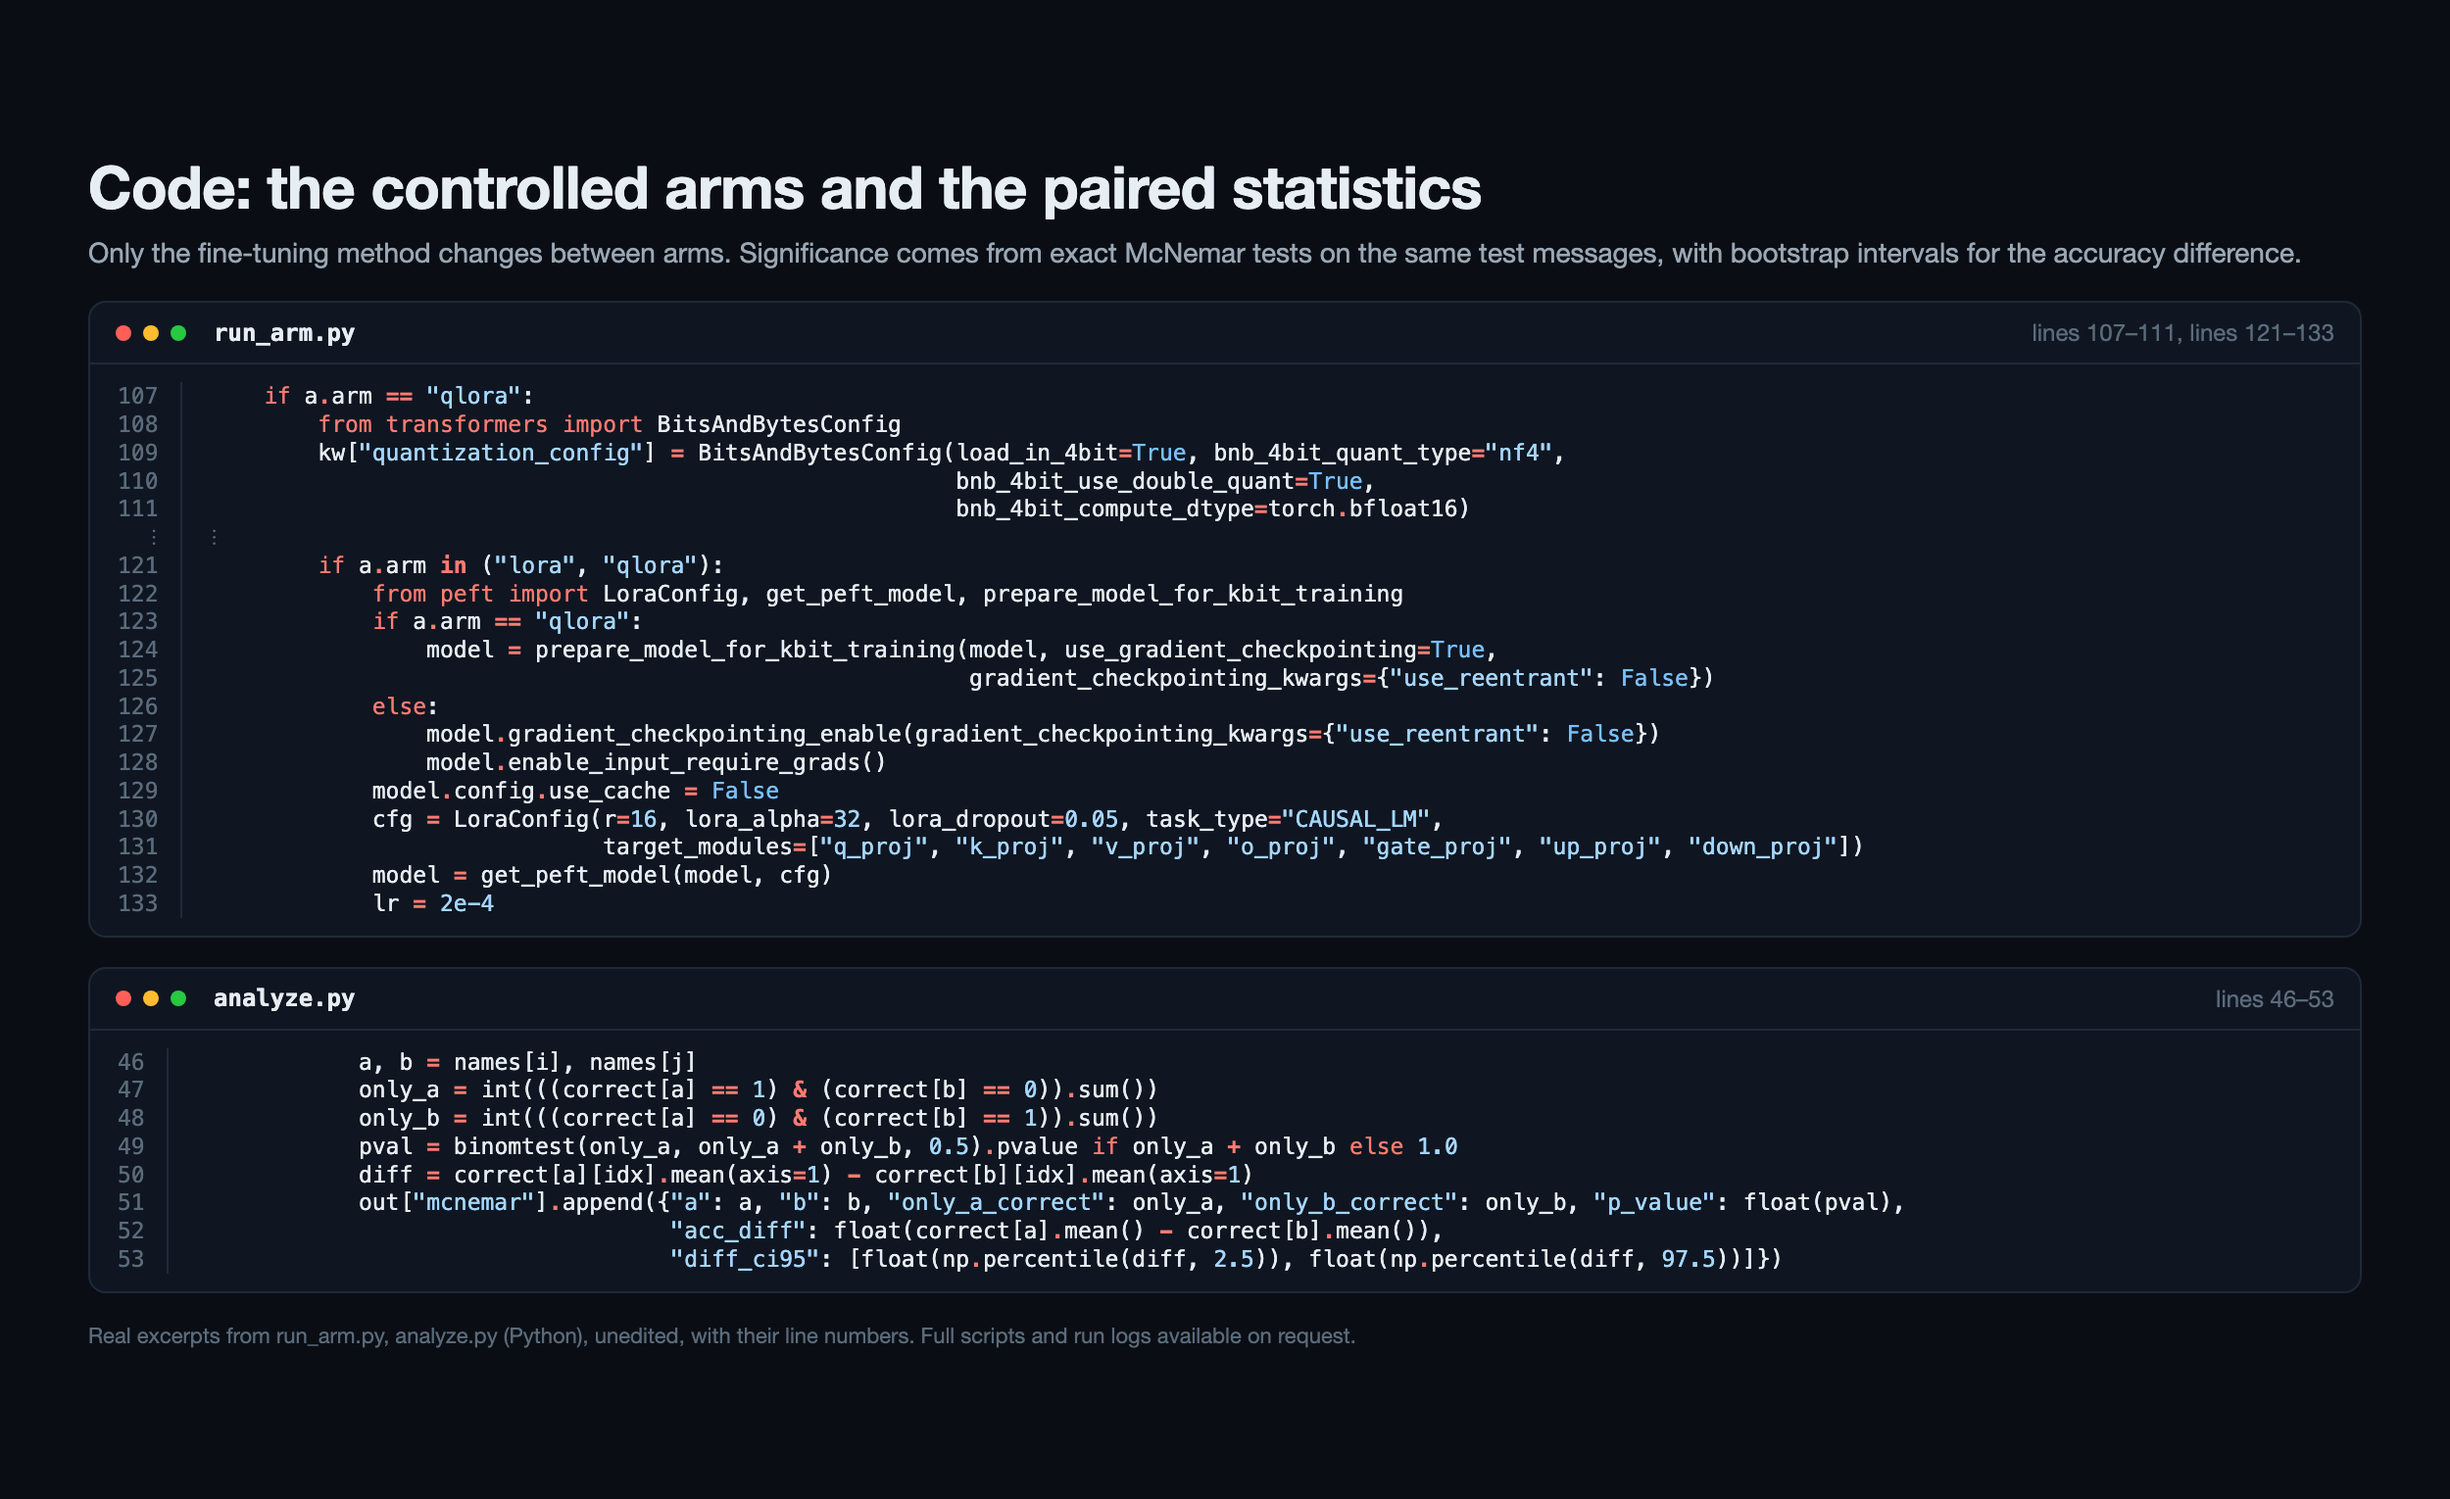
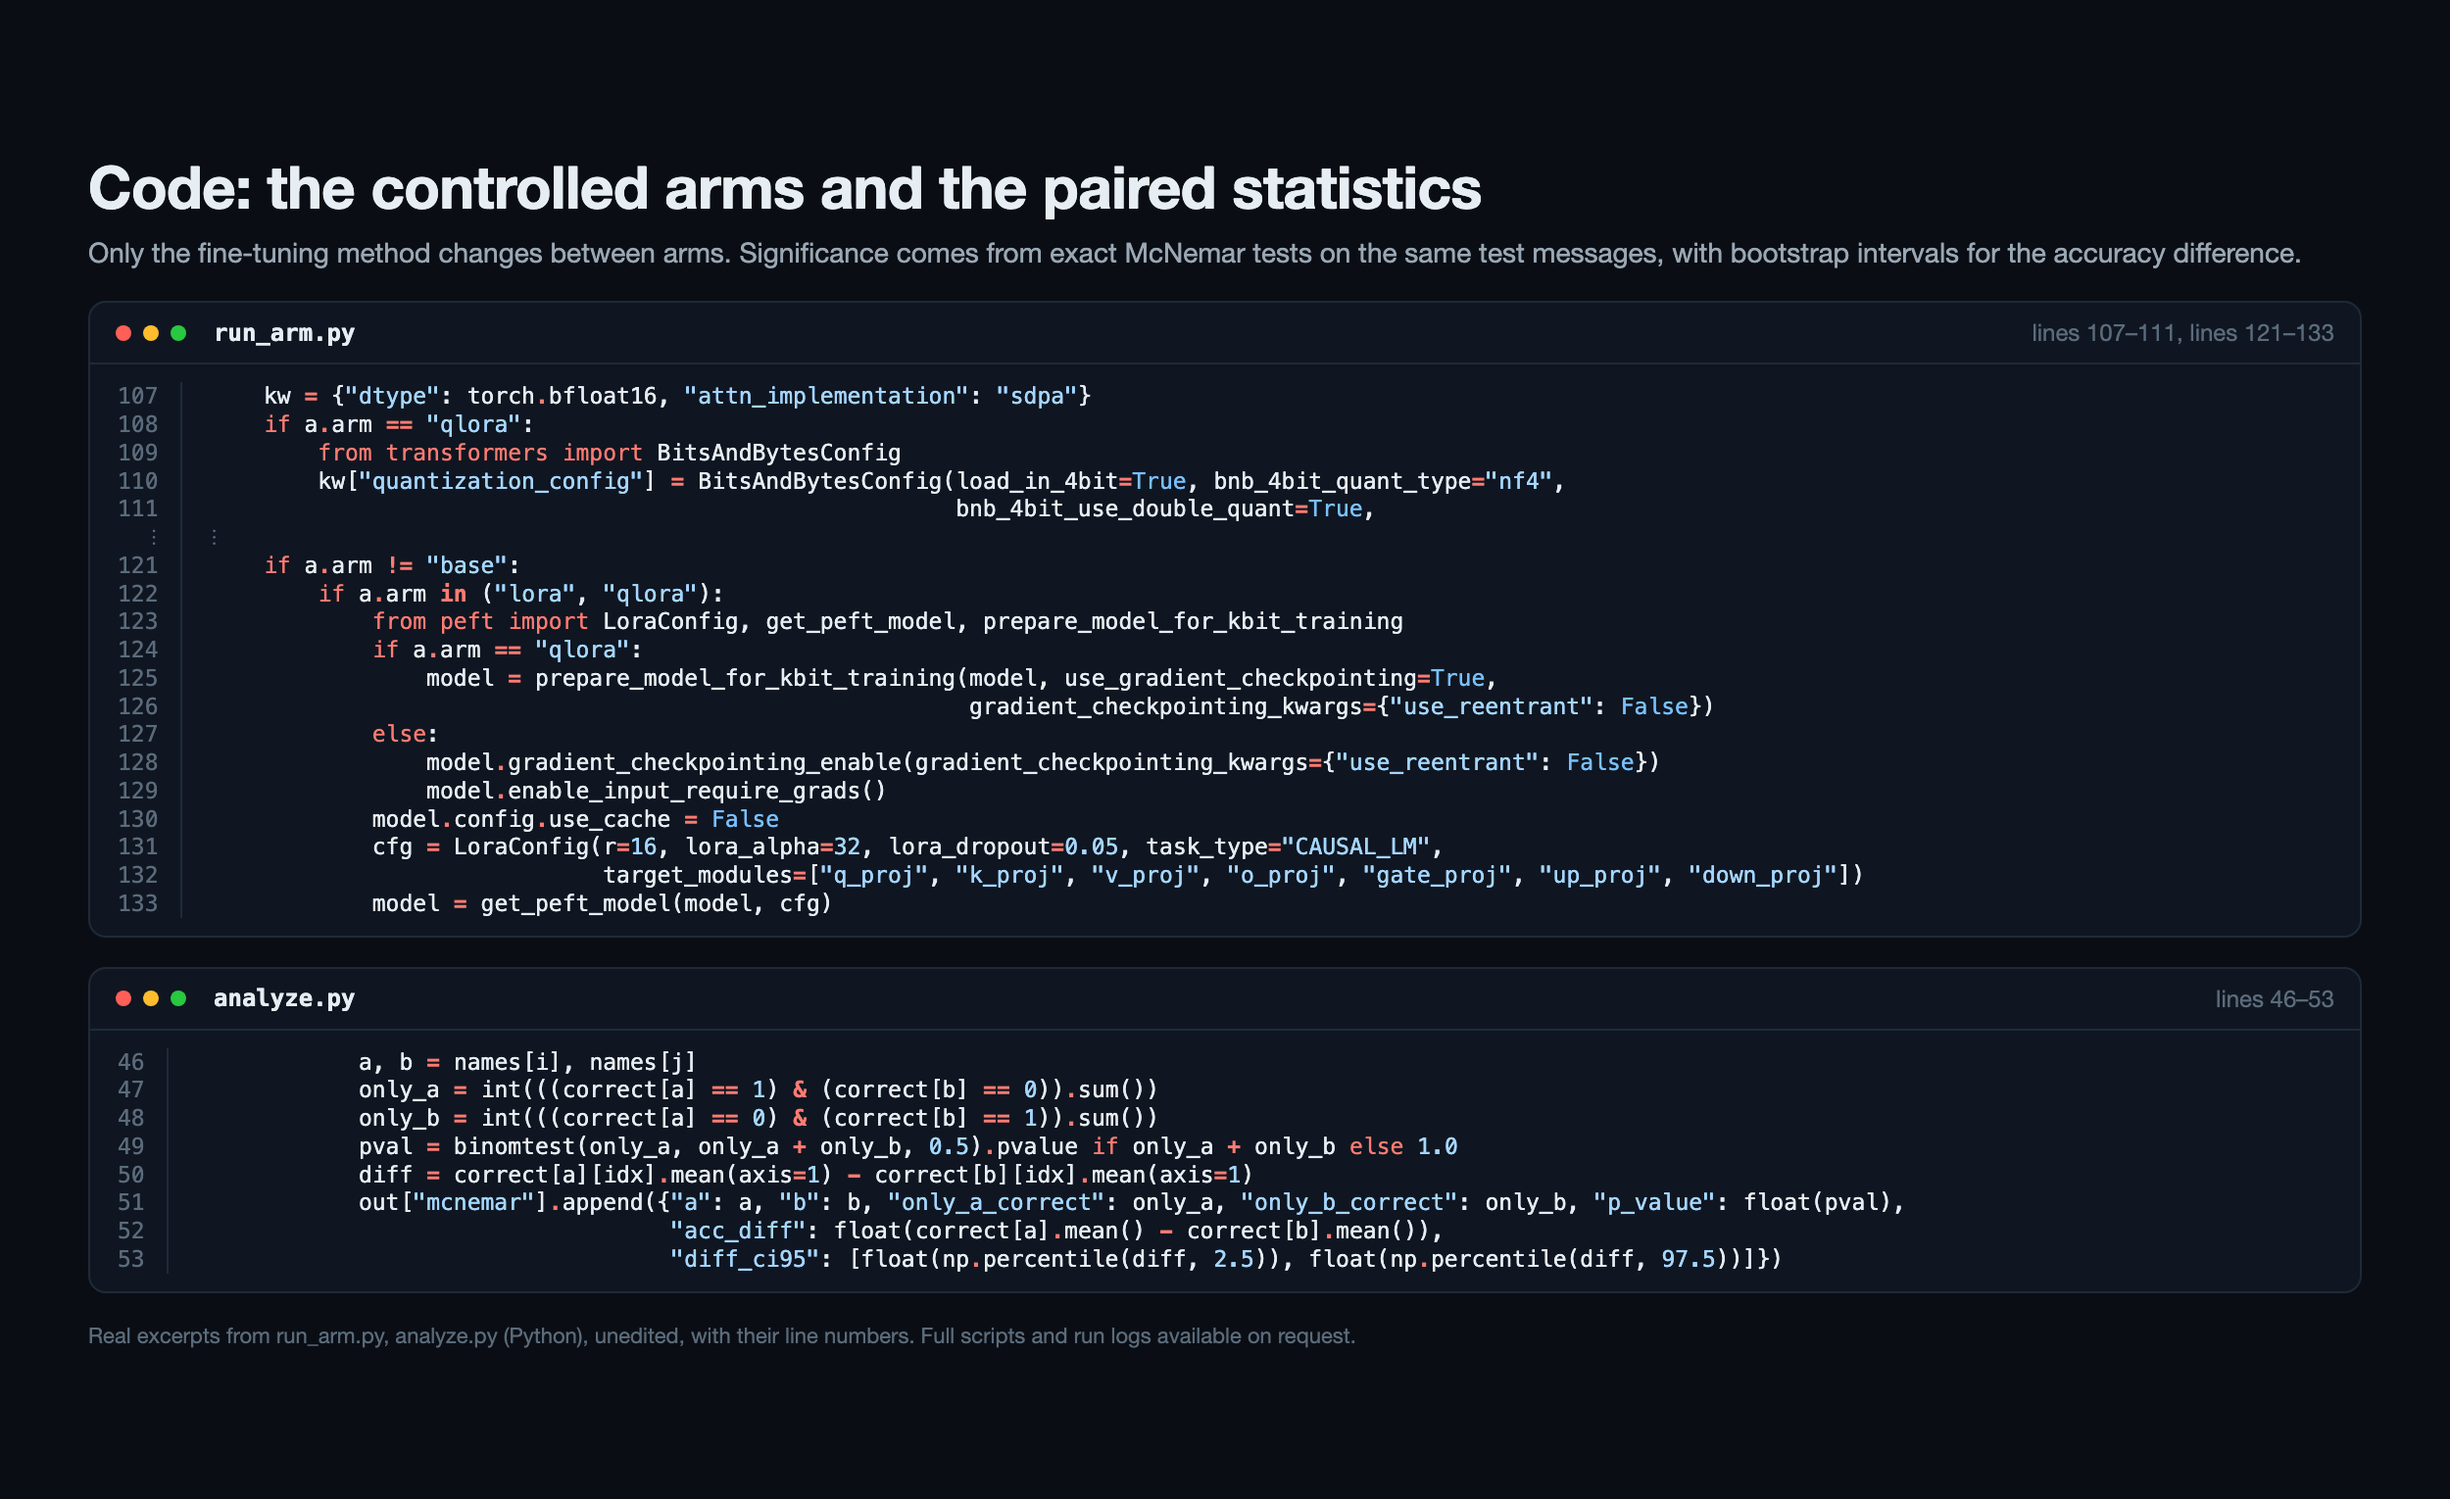
Link the packaged tool and its live demo from the screening case study

Changed region(s): [[0.1248, 0.2458, 0.7488, 0.6144], [0.4056, 0.2458, 0.4368, 0.2765]]

diff --git a/llm-screening-systematic-reviews/README.md b/llm-screening-systematic-reviews/README.md
@@ -28,6 +28,8 @@ All 19,425 records took 8.2 minutes on one H100 (19–22k prompt tokens per seco
 
 ![Recall curves](figures/exp5_recall_curves.png)
 
+The method is now packaged as an open-source tool, [llm-literature-screener](https://github.com/Hedmm/llm-literature-screener). Rerun with the same model, it reproduces these numbers, including the same five missed studies. Explore its scores interactively in the [live demo](https://huggingface.co/spaces/Hedmm/llm-literature-screener).
+
 ## Limits
 
 - **Low precision (1–2%).** On the test reviews the model flags about a third of the records, and people still screen those. It replaces reading the rest, not the human decision.
